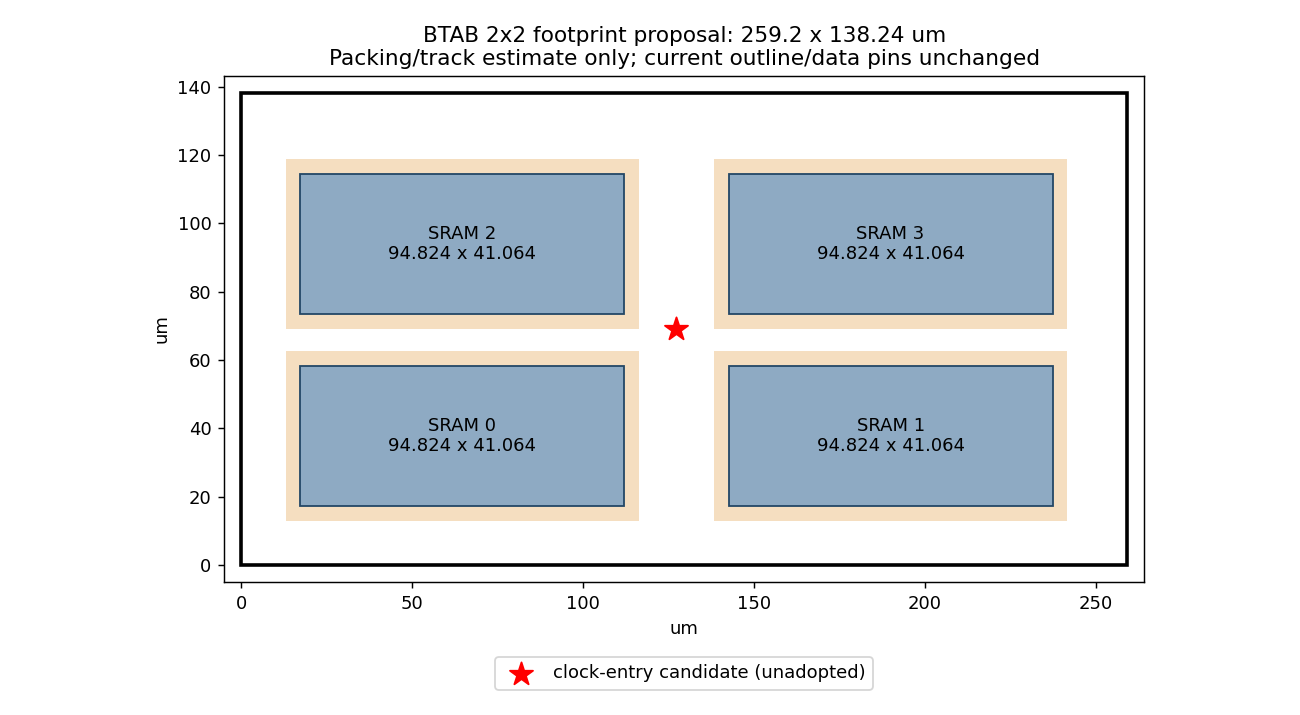
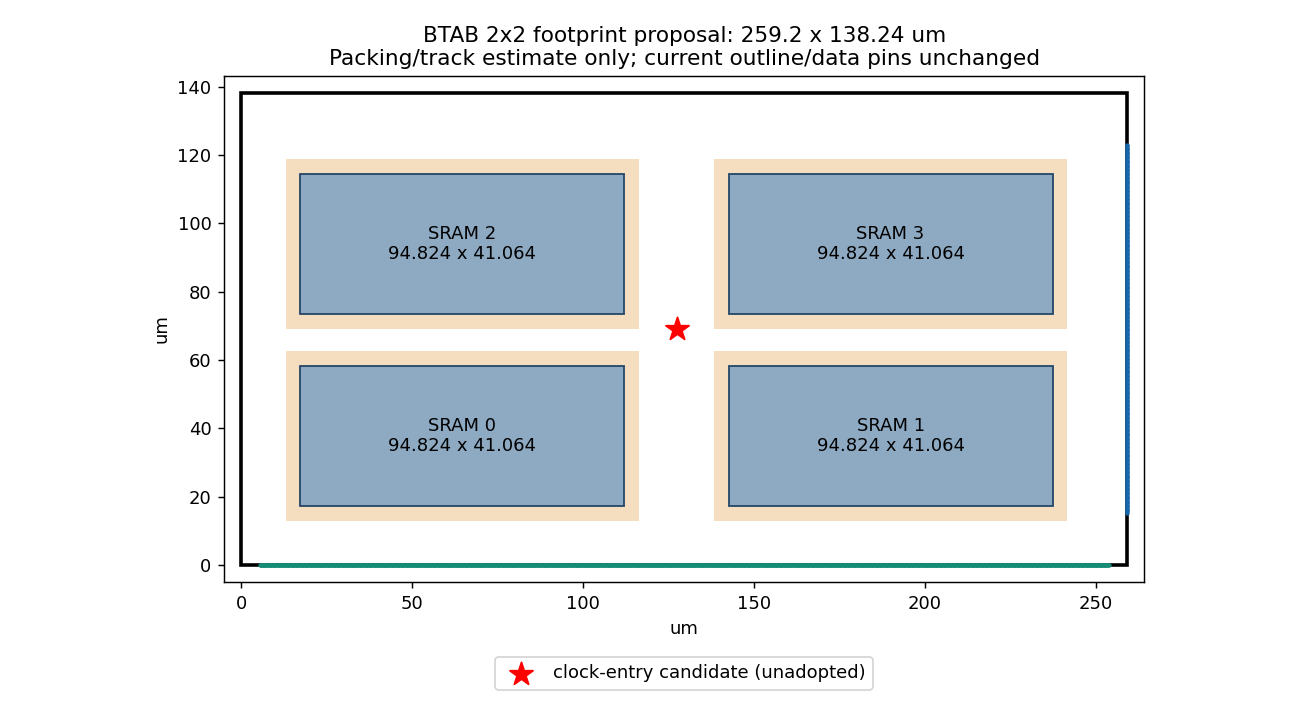
BTAB compact trial geometry review and failure diagnosis, no route

Changed region(s): [[0.1846, 0.7692, 0.8615, 0.8], [0.8615, 0.2154, 0.8923, 0.7077]]

diff --git a/results/codex_qc_btab_2348/shrink_estimate.py b/results/codex_qc_btab_2348/shrink_estimate.py
@@ -33,6 +33,11 @@ def main():
         ax.add_patch(Rectangle((x-4.32,y-4.32),mw+8.64,mh+8.64,facecolor='#f5dec0',edgecolor='none'))
         ax.add_patch(Rectangle((x,y),mw,mh,facecolor='#8eaac3',edgecolor='#234766'))
         ax.text(x+mw/2,y+mh/2,f'SRAM {n}\n94.824 x 41.064',ha='center',va='center')
+    pins=json.loads((out.parents[1]/'physical/die_plan/qwen_compute/cores/su/qfd_dv_s8x_btab_pins_compact2x2.json').read_text())['pins']
+    for face,colour in [('S','#168c77'),('E','#1666aa')]:
+        q=[p for p in pins if p['face']==face]
+        ax.scatter([p['x'] for p in q],[p['y'] for p in q],s=2,c=colour)
+    report['clock_entry_candidate_um']=[127.452,69.12]
     ax.scatter(*report['clock_entry_candidate_um'],marker='*',s=180,c='red',label='clock-entry candidate (unadopted)')
     ax.set(xlim=(-5,W+5),ylim=(-5,H+5),xlabel='um',ylabel='um',title='BTAB 2x2 footprint proposal: 259.2 x 138.24 um\nPacking/track estimate only; current outline/data pins unchanged')
     ax.set_aspect('equal');ax.legend(loc='upper center',bbox_to_anchor=(.5,-.13));fig.tight_layout();fig.savefig(out/'shrink_estimate.png',dpi=130)

diff --git a/results/codex_qc_btab_2348/README.md b/results/codex_qc_btab_2348/README.md
@@ -1,0 +1,17 @@
+# BTAB closure continuation
+
+Current compact candidate source: `35472bb7a` with exact interior-clock generator fix `78ffb1b489`. Shared nongated macro planner `bedf2b9d2` was merged to main `a7168d188c`; superseded prototype `92d60b092` must not be merged.
+
+Inherited last BTAB route `2ce54bb5defe` failed TT slew268, FF hold−29.51/274, clock-pair skew206.9/185.3 and DRC1. Its intel1 source kit still contained actual 3_place/route ODBs despite the autopilot deletion note. Copied into own `codex-qc-btab-2348/censuskit`; original is unchanged.
+
+Baseline generic flop-only tree:3442sinks,498cells,10stages, TT295.84/window67.75, FF228.55/window78.54; FAIL retained. Macro-inclusive prototype using CE6 partitioner:3446sinks,454cells,11stages, exact SRAM clock capacitance9.3458fF TT /10.3732fF FF, TT305.43/window20.14, FF232.02/window28.61; FAIL, no physical build. All322legs shortest, max leaf spread29.69, all3446pins covered exactly once. These prototype topology numbers do not qualify the independent main planner topology.
+
+Structural candidate changes four SRAMs from one vertical stack to2x2, outline354.24x259.2→259.2x138.24 (−60.98%area). Escape-sized central30.456um and outer17.28um channels meet estimated60% track occupancy. `shrink_estimate.py` produces the geometry and actual candidate pin plot. All1318 pin names/directions and per-face ordering stay; S pitch0.24 and E pitch0.384um. Clock pin is127.452,69.12 on M5, clear of SRAM halos. Master-slice clock/reset feedthrough island moves with it. No RTL or latency cycles change.
+
+`compact_event.py IN OUT` applies only the child outline/pins/clock-tap delta to the current QC event. On ev_qc25 this changes3types/12instances; parent partition outlines, core origins, all ports/lanes and data latencies are unchanged. Early insertion is a DECLARED250/202.5 design target pending the compact actual planned tree, never a routed number. New clock tap at792.732,449.28 versus842.424,380.214.
+
+Trial data placement review: `results/geom_review/codex_btab_compact2x2_0014.md`. PASS-COND for one trial placement/sink census only. No CTS/route before actual placement review and macro-inclusive planned-tree PASS.
+
+Live work: intel1 `/srv/opentallas-scratch2/claude/codex-qc-btab-compact`, tool WT `wt/codex-qc-btab-compact` on78ff; generation client intel2 PID1939267, `codex-btab-compact.gen2.otrun.log`, scope intel1 `oth-ubuntu-574314-1793258125`. Input `plan/compact.json`; G0 `g0/g0_report.json`, generated kit `kits/qfd_dv_s8x_btab_compact2x2`.
+
+First generation stopped on faceC clock interpreted as N; exact matching master-slice clock support fixes it (18focused tests PASS including missing/wrong pin/layer/xy controls). Earlier `.lib.gz` passed to plain-text model reader was fixed by unpacking; original failed log remains. No clock/uncertainty/gate relaxed. No owner decision pending.

diff --git a/results/geom_review/codex_btab_compact2x2_0014.md b/results/geom_review/codex_btab_compact2x2_0014.md
@@ -1,0 +1,7 @@
+# BTAB compact2x2 — PASS-COND for trial data placement
+
+Viewed `results/codex_qc_btab_2348/shrink_estimate.png`, including its actual candidate pin map, 2026-10-29 00:14 PDT. Candidate35472bb7a; current ev_qc25/trial25 unchanged.
+
+Four SRAMs form a 2x2 array inside259.2x138.24um. All4.32um halos are disjoint. The central vertical channel30.456um and outer channels>=17.28um use55.3%/48.8% of estimated M3+M5 tracks. The clock/reset island is in the central cross, clear of macro bodies/halos. Clock pin127.452,69.12 lies on M5 0.012+0.048n. S pins retain source order at0.24um pitch, E pins at0.384um pitch; all1318names/directions unchanged. Rectangle diameter397.44um is a geometric bound, not extracted timing. Parent partition outlines/core origins unchanged; zero added data/control cycles.
+
+PASS-COND for ONE trial data placement and actual sink census. Before CTS: inspect placed density, clock and PG clearance, macro pin escape, full r2r reach, and macro-inclusive planned-tree windows. No CTS/route authorization yet. Actual PG continuity/IR and routed clock arrivals NOT RUN.
